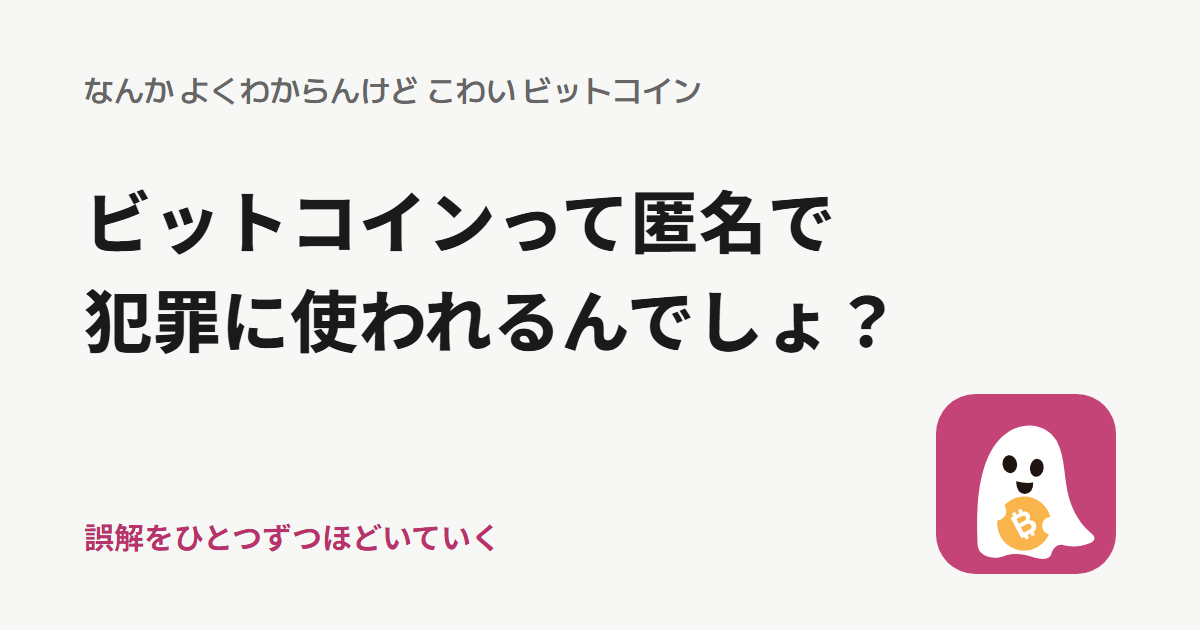
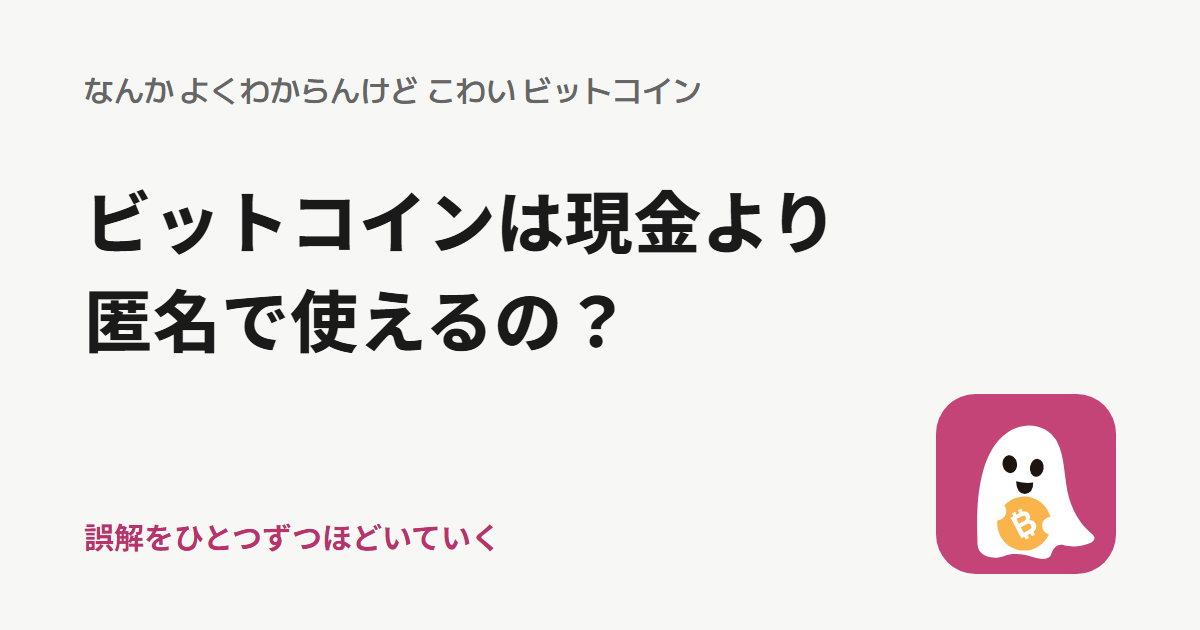
匿名性の記事を現金との比較から始める

diff --git a/static/i18n.js b/static/i18n.js
@@ -79,8 +79,8 @@
     'ケーキと同じで一切れから買える': 'Like cake, you can buy it by the slice',
     'ビットコインってハッキングされて盗まれるんでしょ？': 'Bitcoin can be hacked and stolen, right?',
     '壊れたのは取引所の金庫の方': "What got broken into was the exchange's vault",
-    'ビットコインって匿名だから犯罪に使いやすいんでしょ？': "Bitcoin is anonymous, so it's easy to use for crime, right?",
-    'ビットコインの送金は追跡できる。': 'Bitcoin transfers can be traced.',
+    'ビットコインは現金より匿名で使えるの？': 'Is Bitcoin more anonymous than cash?',
+    '支払いをたどりにくいのは手渡しの現金': 'Cash handed over in person is harder to trace',
     'ビットコインって電気の無駄遣いでしょ？': 'Bitcoin wastes electricity, right?',
     '電力は不正を防ぐ「壁」のコスト': 'Electricity is the cost of the wall that stops cheating',
     '国が禁止したら、ビットコインは終わりでしょ？': 'If a government bans it, Bitcoin is finished, right?',
@@ -337,25 +337,26 @@
     '次の誤解：犯罪・匿名 →': 'Next: Crime & anonymity →',
 
     /* ===== crime ===== */
-    'ビットコインって匿名だから犯罪に使いやすいんでしょ？：なんか よくわからんけど こわい ビットコイン': "Bitcoin is anonymous, so it's easy to use for crime, right? | I don't really get it, but it's scary: Bitcoin",
-    'ビットコインって匿名だから<br>犯罪に使いやすいんでしょ？': "Bitcoin is anonymous,<br>so it's easy to use for crime, right?",
-    'ビットコインの送金は追跡できる。<br>公開台帳に送金先と金額が残る。': 'Bitcoin transfers can be traced.<br>The public ledger records where the bitcoin went and how much was sent.',
-    'ビットコインの送金は追跡できる。公開台帳に送金先と金額が残る。': 'Bitcoin transfers can be traced. The public ledger records where the bitcoin went and how much was sent.',
-    "ビットコインは銀行を介さずに送金でき、実際に身代金の支払いに使われたこともある。台帳に載るのは本名の代わりにアドレスなので、誰が送ったのかも、お金がどこに行ったのかも分からないように思える。": "Bitcoin can be sent without a bank and has been used to pay ransoms. The ledger shows addresses in place of real names, so it might seem impossible to tell who sent the funds or where they went.",
+    'ビットコインは現金より匿名で使えるの？：なんか よくわからんけど こわい ビットコイン': "Is Bitcoin more anonymous than cash? | I don't really get it, but it's scary: Bitcoin",
+    'ビットコインは現金より<br>匿名で使えるの？': 'Is Bitcoin more anonymous<br>than cash?',
+    '支払いをあとからたどりにくいのは、手渡しの現金。<br>ビットコインは送金先と金額が公開台帳に残る。': 'Cash handed over in person is harder to trace.<br>Bitcoin records the destination and amount on a public ledger.',
+    '手渡しの現金には公開の支払い記録が残らない。ビットコインは送金先と金額が公開台帳に残る。': 'Handing over cash leaves no public payment record. Bitcoin records the destination and amount on a public ledger.',
     "公開台帳でたどる送金記録": "Tracing transfers on the public ledger",
-    "台帳はすべて公開されている。前に受け取ったどのビットコインを使い、どこにいくら送ったかが分かる。アドレスだけで持ち主が分かるとは限らないけれど、取引のつながりは誰でも調べられる。": "The entire ledger is public. It shows which previously received bitcoin was spent, where it went, and how much was sent. Anyone can follow those links even when the addresses do not reveal their owners.",
+    '台帳には、前に受け取ったどのビットコインを使い、どこにいくら送ったかが残る。アドレスだけで持ち主が分かるとは限らないけれど、そのお金が次にどこへ移ったかはたどれる。': 'The ledger shows which previously received bitcoin was spent, where it went, and how much was sent. You can follow where the money goes next even if the addresses do not reveal their owners.',
     '取引所': 'Exchange',
     "図でたどるのは一つの経路。実際の取引では複数の送り先に分かれることもある。": "The diagram follows one path. A real transaction can split the funds among several destinations.",
-    '支払いのあとに何が残る？': 'What record does a payment leave?',
+    '現金とビットコイン、支払いのあとに何が残る？': 'What records do cash and Bitcoin payments leave?',
     'AさんがBさんに代金を支払った。あとからその支払いを調べると何が分かる？': 'A pays B. What can someone find out about the payment later?',
     '現金を手渡し': 'Paying in cash',
-    '手渡しただけでは支払いの記録が残らない。': "Handing over cash doesn't create a payment record by itself.",
+    '公開の支払い記録なし': 'No public payment record',
+    '手渡すだけでは、誰にいくら払ったかを第三者が調べられる公開記録は残らない。': 'Handing over cash leaves no public record that someone else can look up to see who was paid or how much.',
     'ビットコインで送金': 'Paying in bitcoin',
     'アドレス A → アドレス B': 'Address A → Address B',
-    '送り先のアドレスと金額が公開台帳に残る。': 'The public ledger records the receiving address and amount.',
+    '本名は載らないが、誰でも送り先のアドレスと金額を公開台帳で確認できる。': 'The ledger omits real names, but anyone can look up the receiving address and amount.',
+    '実際に送金をたどった事件': 'A case where investigators traced a payment',
     '2021年の米コロニアル・パイプラインの事件では、捜査当局が公開台帳で身代金の送金を追い、支払われたビットコインの一部を押収した。': 'In the 2021 Colonial Pipeline case, investigators traced the ransom payment on the public ledger and seized some of the bitcoin that had been paid.',
     '米司法省の発表': 'U.S. Department of Justice announcement',
-    'ビットコインは本名が載らなくても、公開された送金記録が手がかりになる': 'Public Bitcoin transfer records provide clues even without real names',
+    '手渡しの現金は、公開記録から支払いをたどれない。ビットコインは本名が載らなくても送金記録が手がかりになる。': 'Cash handed over in person leaves no public record to trace. Bitcoin transfer records provide clues even without real names.',
     '← 前の誤解：ハッキング': '← Previous: Hacking',
     '次の誤解：電気・環境 →': 'Next: Electricity & the environment →',
 

diff --git a/src/lib/articles/crime.html b/src/lib/articles/crime.html
@@ -1,13 +1,29 @@
-<div class="answer" data-i18n-html>ビットコインの送金は追跡できる。<br>公開台帳に送金先と金額が残る。</div>
+<div class="answer" data-i18n-html>支払いをあとからたどりにくいのは、手渡しの現金。<br>ビットコインは送金先と金額が公開台帳に残る。</div>
 
   <section>
-    <h2 data-i18n>なぜそう見えるか</h2>
-    <p class="lede" data-i18n>ビットコインは銀行を介さずに送金でき、実際に身代金の支払いに使われたこともある。台帳に載るのは本名の代わりにアドレスなので、誰が送ったのかも、お金がどこに行ったのかも分からないように思える。</p>
+    <h2 data-i18n>現金とビットコイン、支払いのあとに何が残る？</h2>
+    <p class="lede" data-i18n>AさんがBさんに代金を支払った。あとからその支払いを調べると何が分かる？</p>
+    <div class="card payment-comparison">
+      <div class="cols">
+        <div class="payment-method">
+          <h3 data-i18n>現金を手渡し</h3>
+          <div class="payment-record cash" data-i18n>公開の支払い記録なし</div>
+          <p data-i18n>手渡すだけでは、誰にいくら払ったかを第三者が調べられる公開記録は残らない。</p>
+        </div>
+        <div class="payment-method">
+          <h3 data-i18n>ビットコインで送金</h3>
+          <div class="payment-record">
+            <span data-i18n>アドレス A → アドレス B</span><b>0.01 BTC</b>
+          </div>
+          <p data-i18n>本名は載らないが、誰でも送り先のアドレスと金額を公開台帳で確認できる。</p>
+        </div>
+      </div>
+    </div>
   </section>
 
   <section>
     <h2 data-i18n>公開台帳でたどる送金記録</h2>
-    <p class="lede" data-i18n>台帳はすべて公開されている。前に受け取ったどのビットコインを使い、どこにいくら送ったかが分かる。アドレスだけで持ち主が分かるとは限らないけれど、取引のつながりは誰でも調べられる。</p>
+    <p class="lede" data-i18n>台帳には、前に受け取ったどのビットコインを使い、どこにいくら送ったかが残る。アドレスだけで持ち主が分かるとは限らないけれど、そのお金が次にどこへ移ったかはたどれる。</p>
     <div class="card ledger game" id="traceCard">
       <div class="lrow show"><span><span class="addr">1A2b…x9</span> → <span class="addr">3Cd4…m2</span></span><b>0.5 BTC</b></div>
       <div class="lrow"><span><span class="addr">3Cd4…m2</span> → <span class="addr">7Ef8…q7</span></span><b>0.2 BTC</b></div>
@@ -21,23 +37,7 @@
   </section>
 
   <section>
-    <h2 data-i18n>支払いのあとに何が残る？</h2>
-    <p class="lede" data-i18n>AさんがBさんに代金を支払った。あとからその支払いを調べると何が分かる？</p>
-    <div class="card payment-comparison">
-      <div class="cols">
-        <div class="payment-method">
-          <h3 data-i18n>現金を手渡し</h3>
-          <p data-i18n>手渡しただけでは支払いの記録が残らない。</p>
-        </div>
-        <div class="payment-method">
-          <h3 data-i18n>ビットコインで送金</h3>
-          <div class="payment-record">
-            <span data-i18n>アドレス A → アドレス B</span><b>0.01 BTC</b>
-          </div>
-          <p data-i18n>送り先のアドレスと金額が公開台帳に残る。</p>
-        </div>
-      </div>
-      <p class="payment-case"><span data-i18n>2021年の米コロニアル・パイプラインの事件では、捜査当局が公開台帳で身代金の送金を追い、支払われたビットコインの一部を押収した。</span> <a href="https://www.justice.gov/archives/opa/pr/department-justice-seizes-23-million-cryptocurrency-paid-ransomware-extortionists-darkside" data-i18n>米司法省の発表</a></p>
-    </div>
+    <h2 data-i18n>実際に送金をたどった事件</h2>
+    <p class="lede"><span data-i18n>2021年の米コロニアル・パイプラインの事件では、捜査当局が公開台帳で身代金の送金を追い、支払われたビットコインの一部を押収した。</span> <a href="https://www.justice.gov/archives/opa/pr/department-justice-seizes-23-million-cryptocurrency-paid-ransomware-extortionists-darkside" data-i18n>米司法省の発表</a></p>
   </section>
-<div class="summary"><small data-i18n>一言まとめ</small><span data-i18n>ビットコインは本名が載らなくても、公開された送金記録が手がかりになる</span></div>
+<div class="summary"><small data-i18n>一言まとめ</small><span data-i18n>手渡しの現金は、公開記録から支払いをたどれない。ビットコインは本名が載らなくても送金記録が手がかりになる。</span></div>

diff --git a/src/lib/site.js b/src/lib/site.js
@@ -75,10 +75,10 @@ export const LAYERS = [
       },
       {
         slug: "crime",
-        heading: "ビットコインって匿名だから<br>犯罪に使いやすいんでしょ？",
-        cardAnswer: "ビットコインの送金は追跡できる。",
-        description: "ビットコインの送金は追跡できる。公開台帳に送金先と金額が残る。",
-        shareEn: { title: "Bitcoin is anonymous, so it's easy to use for crime, right?", text: "Bitcoin transfers can be traced. The public ledger records where the bitcoin went and how much was sent." }
+        heading: "ビットコインは現金より<br>匿名で使えるの？",
+        cardAnswer: "支払いをたどりにくいのは手渡しの現金",
+        description: "手渡しの現金には公開の支払い記録が残らない。ビットコインは送金先と金額が公開台帳に残る。",
+        shareEn: { title: "Is Bitcoin more anonymous than cash?", text: "Handing over cash leaves no public payment record. Bitcoin records the destination and amount on a public ledger." }
       },
       {
         slug: "energy",

diff --git a/static/styles/articles/crime.css b/static/styles/articles/crime.css
@@ -5,12 +5,11 @@
     border-radius:6px;padding:1px 6px}
 .payment-method{border:1px solid var(--line);border-radius:10px;padding:12px}
 .payment-method h3{margin:0 0 8px;font-size:15px}
-.payment-method p,.payment-case{margin:0;font-size:13px;color:var(--sub)}
+.payment-method p{margin:0;font-size:13px;color:var(--sub)}
 .payment-record{display:flex;flex-wrap:wrap;justify-content:space-between;gap:2px 10px;
     margin-bottom:8px;padding:6px 8px;border-radius:6px;font-size:13px;background:var(--color-secondary-bg)}
 .payment-record b{white-space:nowrap;color:var(--color-secondary)}
-.payment-case{margin-top:16px;padding-top:12px;border-top:1px solid var(--line)}
-.ledger.game .lrow{opacity:0;transform:translateY(6px);transition:opacity .5s ease,transform .5s ease}
-.ledger.game .lrow.show{opacity:1;transform:none}
+.payment-record.cash{background:var(--bg);color:var(--sub)}
+.ledger.game .lrow:not(.show){display:none}
 .tracemsg{font-size:14px;min-height:3.2em;margin:12px 0 0}
 #traceBtn{min-height:44px}
